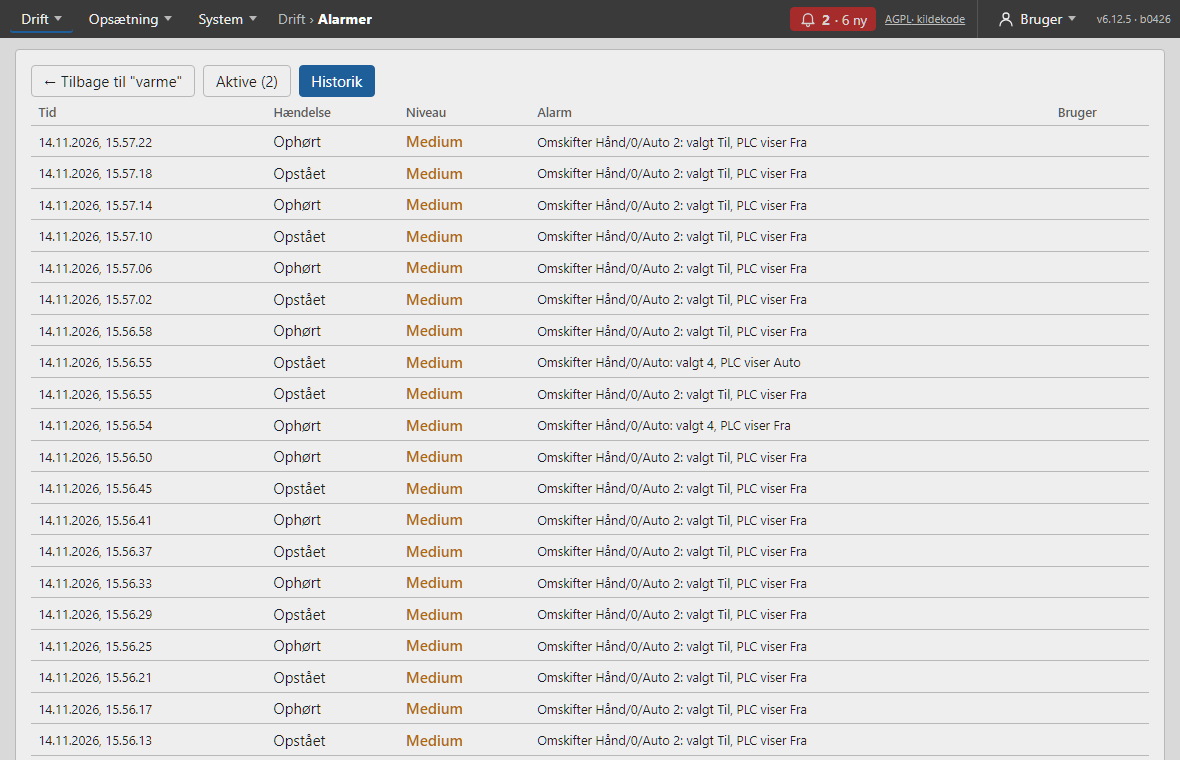
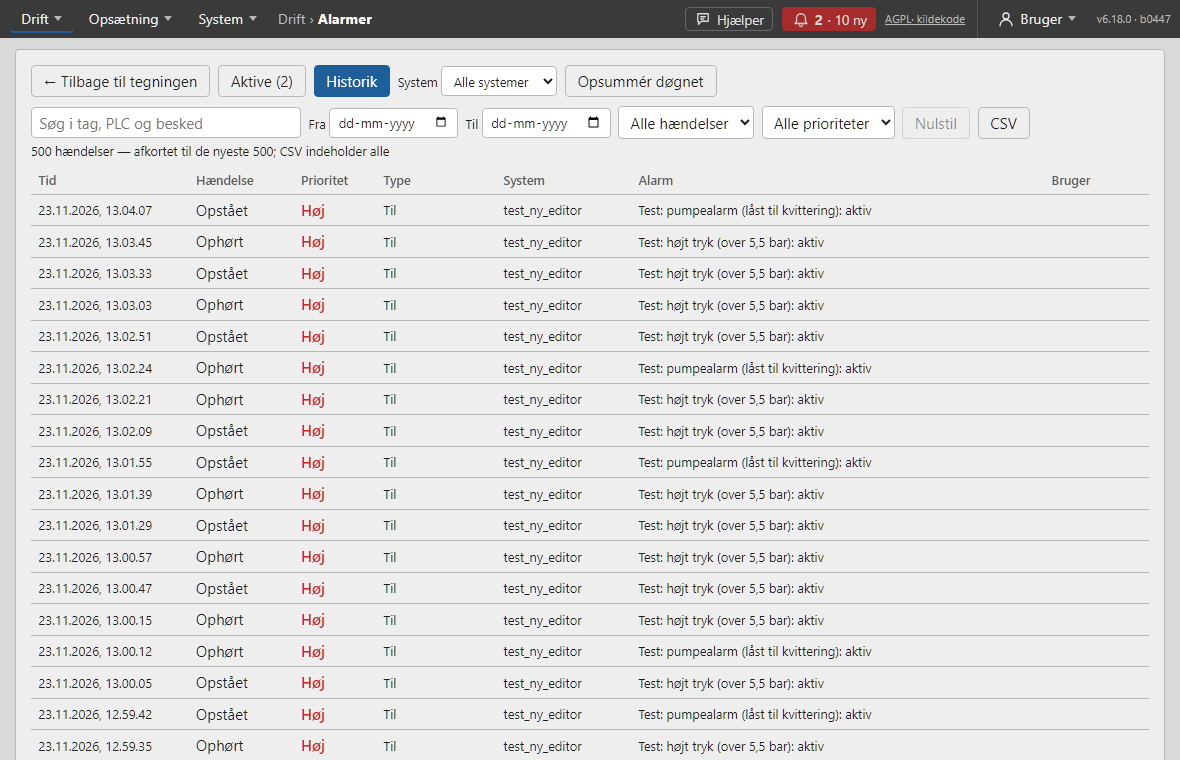
v6.18.0-b0448: manualbilleder af Alarmer (Prioritet/Type og historikkens filtre)

diff --git a/CHANGELOG.md b/CHANGELOG.md
@@ -4,6 +4,10 @@ Nyeste øverst. Format: `## [version build NNNN] — YYYY-MM-DD — beskrivelse`
 
 ---
 
+## [6.18.0 build 0448] — 2026-11-23 — Manualbilleder: Alarmer (Aktive og Historik)
+
+`frontend/public/manual/alarmer.png` og `alarmer-historik.png` er taget igen (demoen, v6.18.0 b0447) og viser kolonnerne *Prioritet* og *Type* samt historikkens filterlinje og CSV-knap (v6.17.0 og v6.18.0).
+
 ## [6.18.0 build 0447] — 2026-11-23 — Alarmer: kortvisning på smal skærm
 
 Under 800 px bliver hver række i Aktive og Historik et kort (tid, prioritet og type øverst, alarmteksten i fuld bredde, derunder system/tilstand og knapperne), så alarmteksten kan læses og *Kvittér* ikke skæres af. Skrivebordsvisningen er uændret. `frontend/src/pages/Alarms.svelte`. Set i forhåndsvisning af den lokale build mod demoens data ved 500 og 1600 px.
